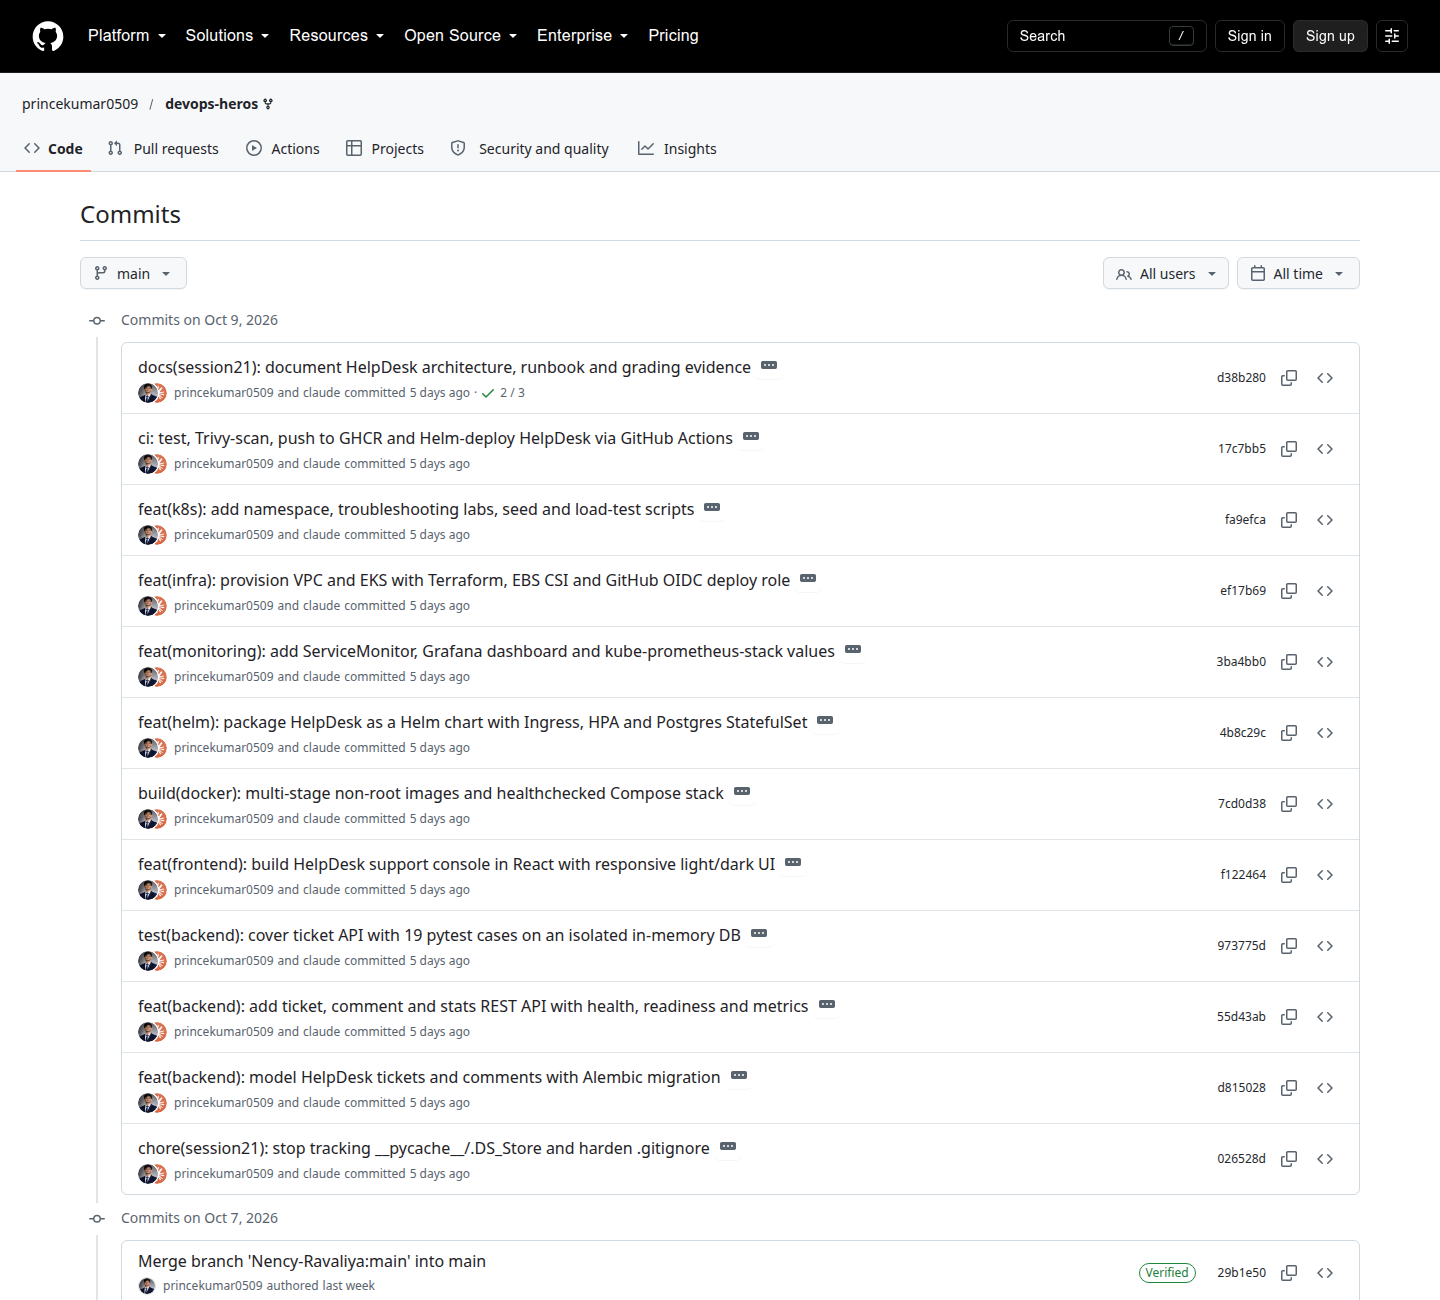
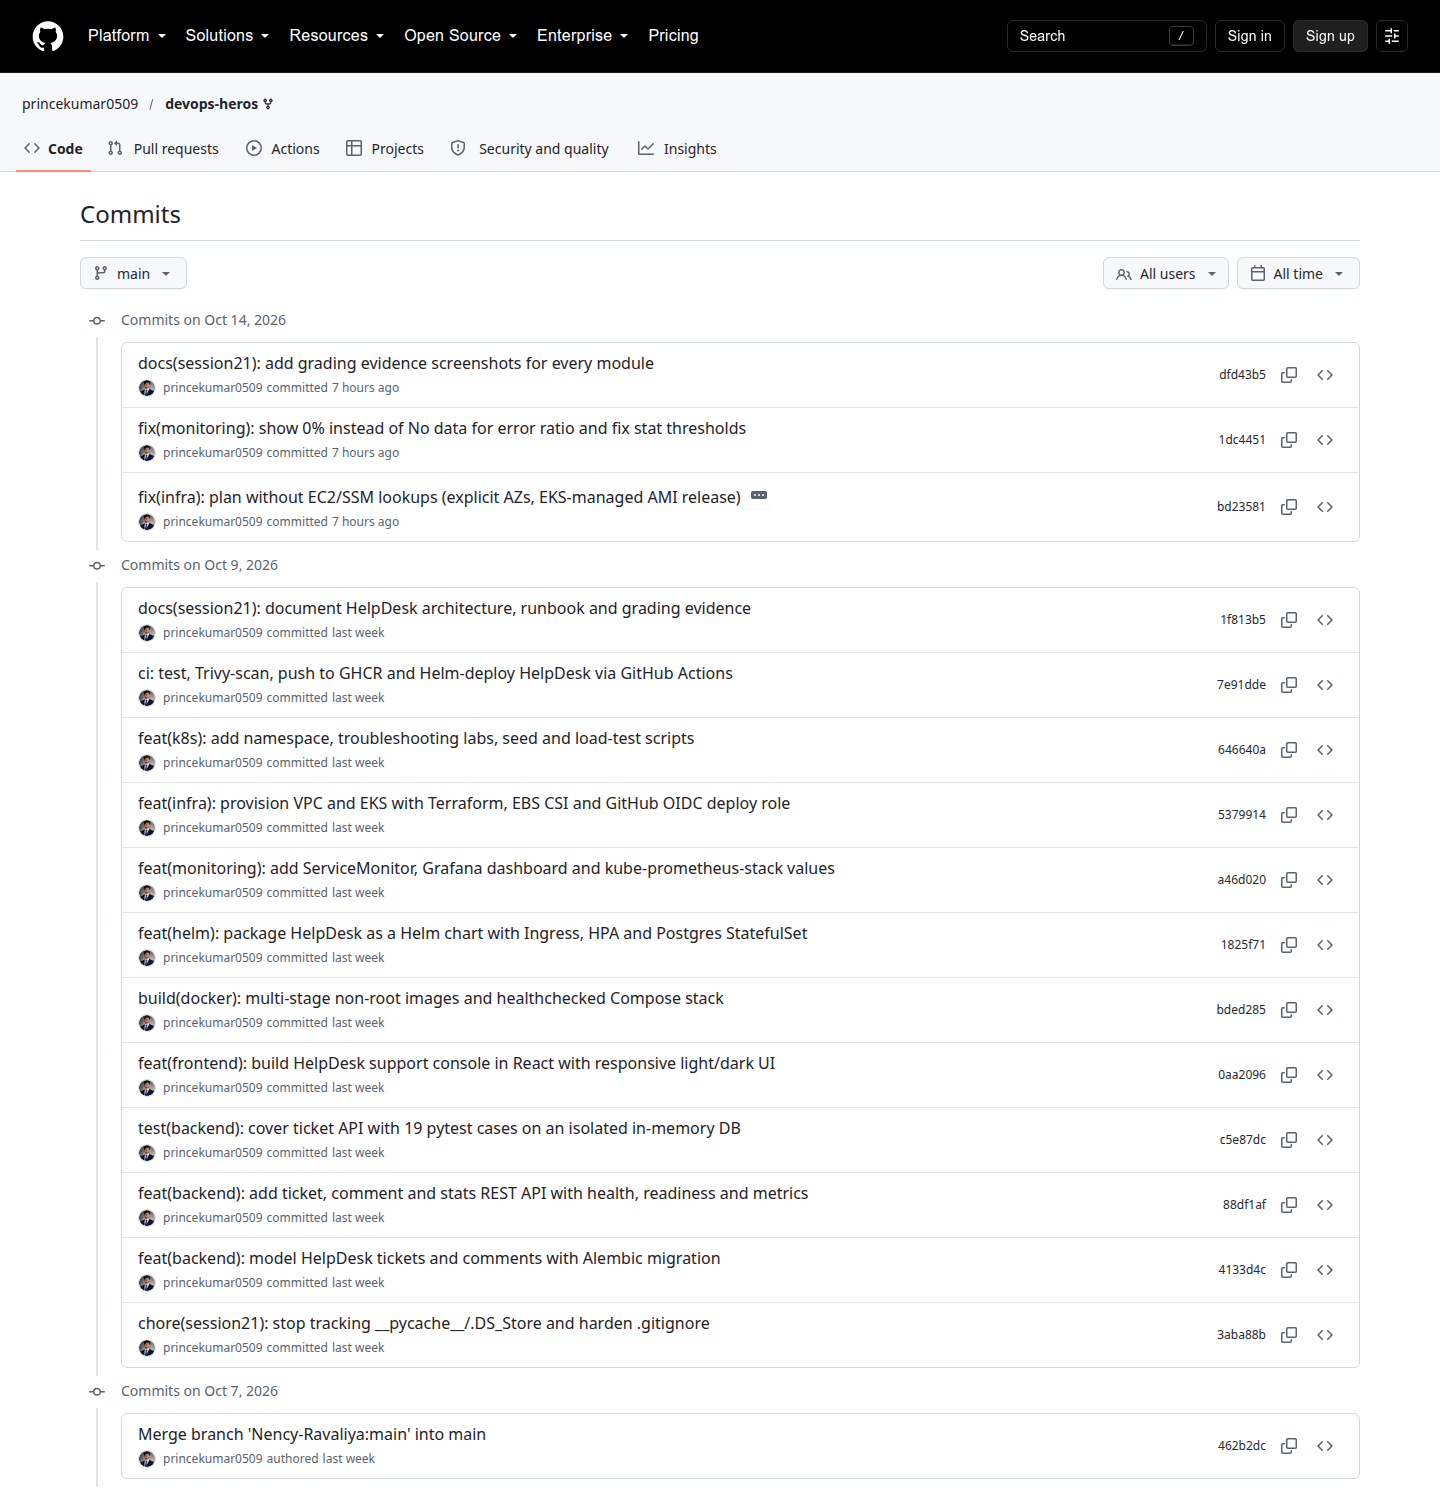
docs(session21): re-capture commit history evidence after history rewrite

diff --git a/session21-python/evidence/README.md b/session21-python/evidence/README.md
@@ -1,6 +1,6 @@
 # Grading evidence — HelpDesk capstone
 
-All screenshots were captured on 2026-10-14. Terminal images are renderings of the real command output. The exact text of each is in [`raw/`](raw/).
+All screenshots were captured on 2026-10-14, except `m3-commit-history.png`, which was re-captured on 2026-10-15 after the history was rewritten. Terminal images are renderings of the real command output. The exact text of each is in [`raw/`](raw/).
 
 | Module | Evidence | What it shows |
 |---|---|---|
